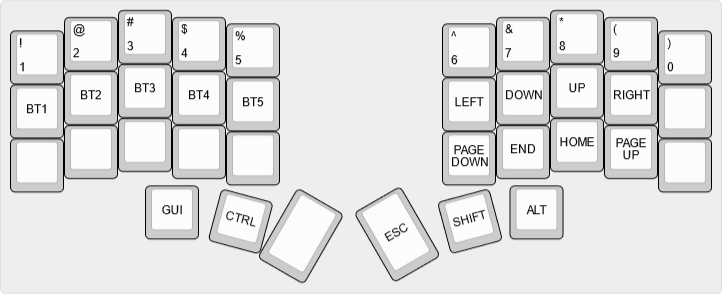
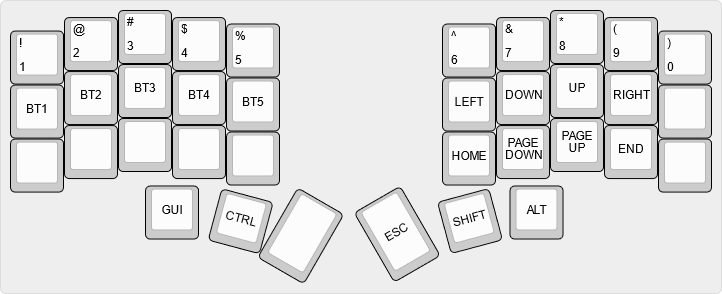
chore: remap home,pg down/up, and end

diff --git a/README.md b/README.md
@@ -1,5 +1,7 @@
 # Chocofi Config/Layout
 
+Images produced using: [keyboard-layout-editor.com](http://www.keyboard-layout-editor.com/)
+
 ## Default Layer
 
 ![Chocofi Default](./docs/images/chocofi-default.png)
